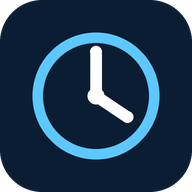
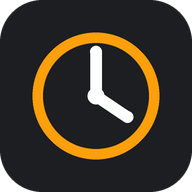
Switch to graphite/silver theme with orange highlights
Replaces the blue-on-blue dark theme with graphite surfaces, silver
function keys and orange accents; the light theme and app icon follow
the same palette.

Claude-Session: https://claude.ai/code/session_011ieUGBZu43zLb5ZdCbXYDi

Changed region(s): [[0.1562, 0.1562, 0.8438, 0.8438]]

diff --git a/src/styles.css b/src/styles.css
@@ -1,17 +1,21 @@
 :root {
-  --bg: #0b1d33;
-  --surface: #12294a;
-  --surface-2: #1a3560;
-  --key: #1c3a66;
-  --key-pressed: #2c5591;
-  --fn: #2a2f45;
-  --text: #f2f6fb;
-  --muted: #8ea5c4;
-  --accent: #5cc8ff;
-  --accent-ink: #04223a;
-  --danger: #ff6b6b;
-  --edit: #ffc94d;
-  --line: rgba(255, 255, 255, 0.09);
+  /* Dark: graphite and silver with orange highlights. */
+  --bg: #121214;
+  --surface: #1d1e21;
+  --surface-2: #2a2b2f;
+  --key: #333438;
+  --key-pressed: #55575d;
+  --fn: #a5a7ad;
+  --fn-pressed: #d4d5d9;
+  --fn-ink: #121214;
+  --text: #f4f4f5;
+  --muted: #9a9ca3;
+  --accent: #ff9f0a;
+  --accent-ink: #1a1102;
+  --danger: #ff5c5c;
+  --edit: #d9dbe0;
+  --line: rgba(255, 255, 255, 0.08);
+  --toast: #3a3b40;
   --radius: 12px;
   --gap: 8px;
   color-scheme: dark;
@@ -19,19 +23,22 @@
 
 @media (prefers-color-scheme: light) {
   :root {
-    --bg: #eef2f7;
+    --bg: #f2f2f4;
     --surface: #ffffff;
-    --surface-2: #e3eaf3;
+    --surface-2: #e6e7ea;
     --key: #ffffff;
-    --key-pressed: #cfdcec;
-    --fn: #dfe5ee;
-    --text: #0b1d33;
-    --muted: #5b6f8a;
-    --accent: #0a7bc2;
+    --key-pressed: #d4d5d9;
+    --fn: #d4d5d9;
+    --fn-pressed: #b9bbc0;
+    --fn-ink: #1c1c1e;
+    --text: #1c1c1e;
+    --muted: #6b6d74;
+    --accent: #c75f00;
     --accent-ink: #ffffff;
     --danger: #d63c3c;
-    --edit: #b07800;
-    --line: rgba(11, 29, 51, 0.1);
+    --edit: #5a5c63;
+    --line: rgba(0, 0, 0, 0.09);
+    --toast: #2c2d31;
     color-scheme: light;
   }
 }
@@ -428,11 +435,11 @@ button {
 
 .key.fn {
   background: var(--fn);
-  color: var(--danger);
+  color: var(--fn-ink);
 }
 
 .key.fn.pressed {
-  background: var(--key-pressed);
+  background: var(--fn-pressed);
 }
 
 .key.enter {
@@ -498,7 +505,7 @@ button {
 }
 
 .clock-value {
-  font-size: clamp(24px, 4.2vh, 44px);
+  font-size: clamp(22px, min(4.2vh, 7.5vw), 44px);
   font-weight: 300;
   line-height: 1.15;
   white-space: nowrap;
@@ -530,7 +537,7 @@ button {
   align-items: center;
   gap: 16px;
   padding: 10px 10px 10px 18px;
-  background: #222b3a;
+  background: var(--toast);
   color: #fff;
   border-radius: 12px;
   box-shadow: 0 8px 30px rgba(0, 0, 0, 0.35);
@@ -540,13 +547,8 @@ button {
 }
 
 .toast button {
-  color: var(--accent);
+  color: #ff9f0a;
   font-weight: 700;
   padding: 6px 10px;
 }
 
-@media (prefers-color-scheme: light) {
-  .toast button {
-    color: #5cc8ff;
-  }
-}

diff --git a/index.html b/index.html
@@ -3,7 +3,8 @@
   <head>
     <meta charset="UTF-8" />
     <meta name="viewport" content="width=device-width, initial-scale=1, viewport-fit=cover, user-scalable=no" />
-    <meta name="theme-color" content="#0b1d33" />
+    <meta name="theme-color" content="#121214" media="(prefers-color-scheme: dark)" />
+    <meta name="theme-color" content="#f2f2f4" media="(prefers-color-scheme: light)" />
     <meta name="apple-mobile-web-app-capable" content="yes" />
     <meta name="mobile-web-app-capable" content="yes" />
     <meta name="apple-mobile-web-app-status-bar-style" content="black-translucent" />

diff --git a/vite.config.ts b/vite.config.ts
@@ -14,8 +14,8 @@ export default defineConfig({
         name: 'LogCalc – Flight Time Calculator',
         short_name: 'LogCalc',
         description: 'Add up flight time, block time and landings from your logbook.',
-        theme_color: '#0b1d33',
-        background_color: '#0b1d33',
+        theme_color: '#121214',
+        background_color: '#121214',
         display: 'standalone',
         orientation: 'any',
         start_url: './',
